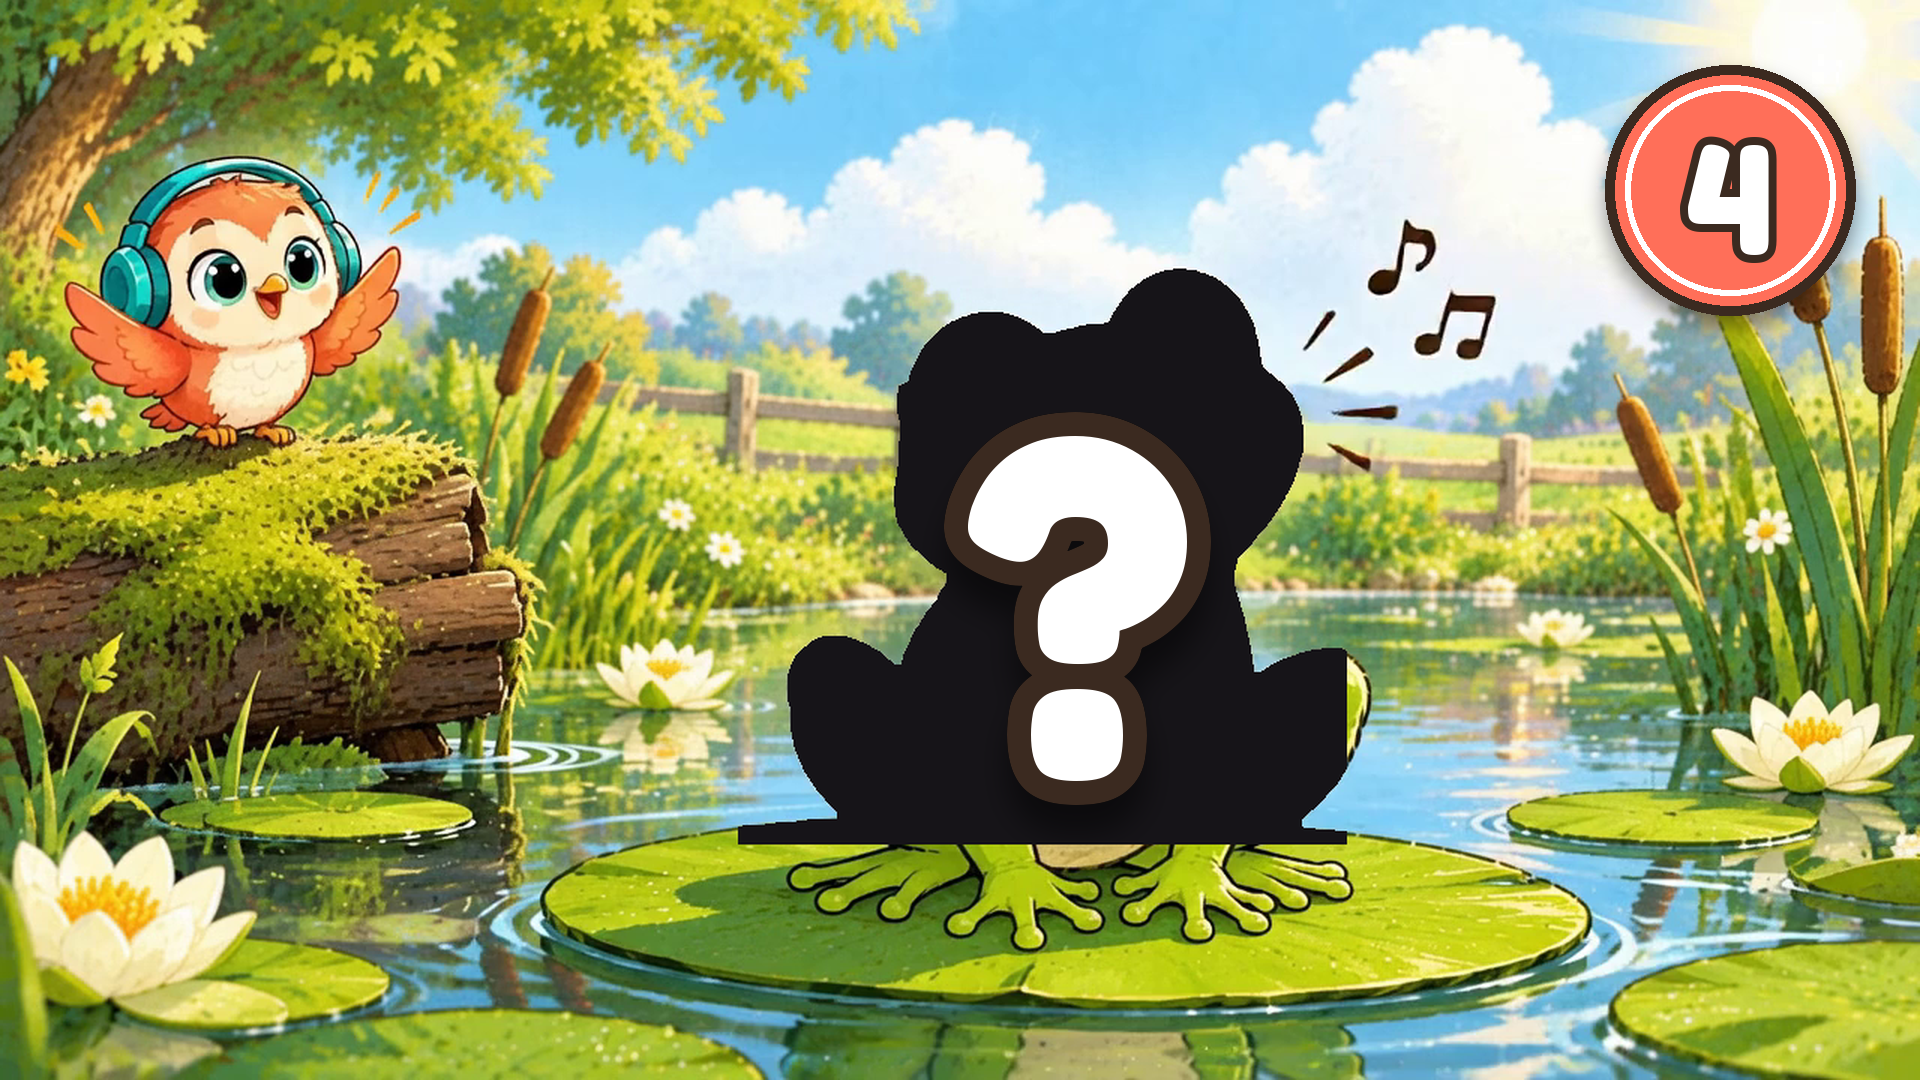
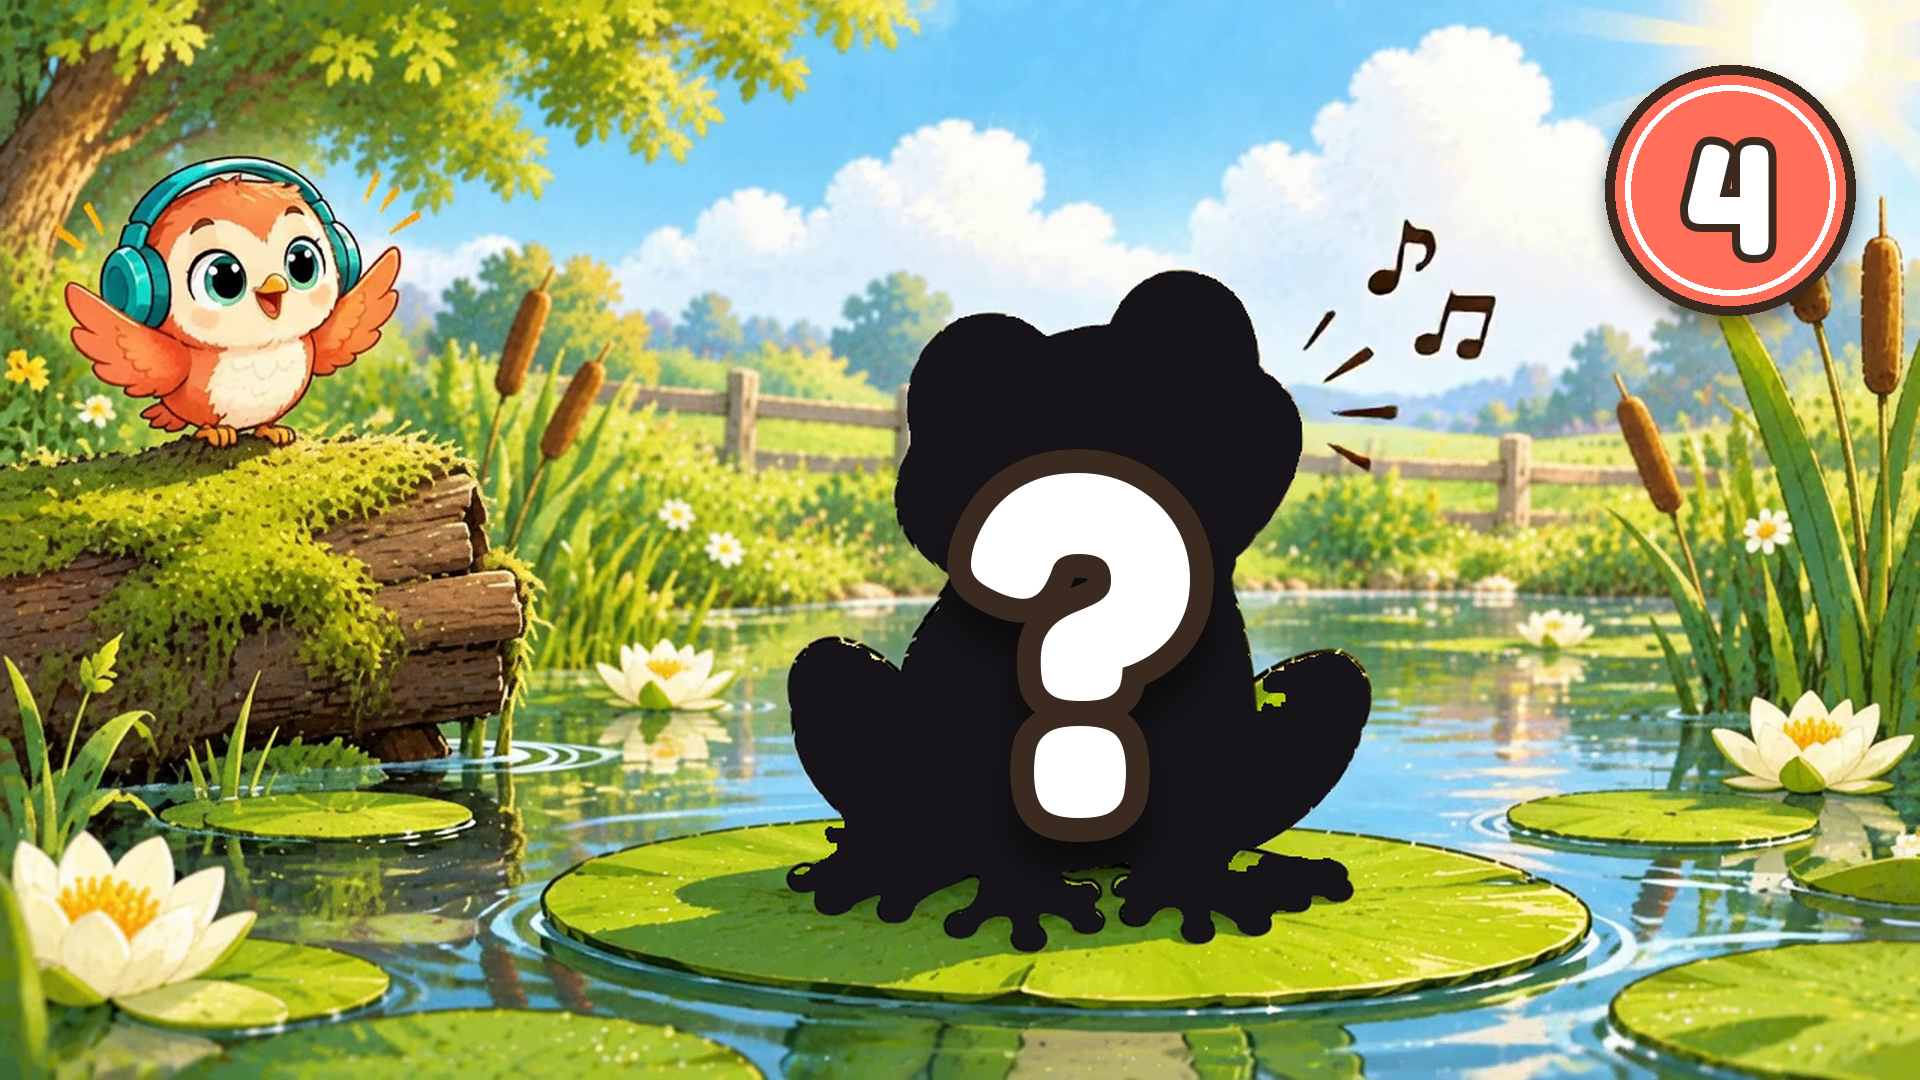
Redo frog, owl and pigeon silhouettes with SAM point prompts
Claude-Session: https://claude.ai/code/session_013XL8KMJpuTBCnbvZY37CBL

diff --git a/unelte/runda_sam.py b/unelte/runda_sam.py
@@ -1,0 +1,47 @@
+"""Siluetă precisă cu SAM: marchezi cu puncte animalul (+) și fundalul lipit de el (-).
+
+Folosire: python3 runda_sam.py <nr_runda> "x,y;x,y;..." "x,y;..." [doar-sam]   (coordonate pe cadru-0.png al rundei)
+"""
+import sys, os
+import numpy as np
+from PIL import Image
+from scipy import ndimage as nd
+from rembg import remove, new_session
+
+ROOT = os.path.join(os.path.dirname(__file__), "..", "canal", "imagini")
+OVL = os.path.join(ROOT, "suprapuneri")
+W, H = 1920, 1080
+nr = int(sys.argv[1])
+pts = lambda s: [[int(v) for v in p.split(",")] for p in s.split(";") if p]
+pos, neg = pts(sys.argv[2]), pts(sys.argv[3]) if len(sys.argv) > 3 else []
+out = os.path.join(ROOT, f"runda-{nr:02d}")
+im = Image.open(os.path.join(out, "cadru-0.png")).convert("RGB")
+w, h = im.size
+prompt = [{"type": "point", "data": p, "label": 1} for p in pos] + [{"type": "point", "data": p, "label": 0} for p in neg]
+m = np.array(remove(im, session=new_session("sam"), only_mask=True, sam_prompt=prompt)) > 127
+# completăm cu modelele obișnuite în zona animalului (capul/fața le scapă uneori lui SAM);
+# dacă fundalul se lipește de animal (acoperiș, frunză), rulează cu al 4-lea argument „doar-sam”
+ys, xs = np.where(m); pad = 25
+x0, y0, x1, y1 = max(0, xs.min() - pad), max(0, ys.min() - pad), min(w, xs.max() + pad), min(h, ys.max() + 1)
+crop = im.crop((x0, y0, x1, y1)); extra = np.zeros(crop.size[::-1], bool)
+for name in (() if len(sys.argv) > 4 and sys.argv[4] == "doar-sam" else ("isnet-general-use", "isnet-anime")):
+    extra |= np.array(remove(crop, session=new_session(name), only_mask=True)) > 60
+m[y0:y1, x0:x1] |= extra
+m = nd.binary_fill_holes(nd.binary_closing(m, structure=np.ones((5, 5))))
+lab, n = nd.label(m)
+m = lab == (np.argmax(nd.sum(m, lab, range(1, n + 1))) + 1)
+cy, cx = nd.center_of_mass(m)
+sil = Image.composite(Image.new("RGB", (w, h), (22, 20, 24)), im, Image.fromarray((m * 255).astype("uint8")))
+sil.save(os.path.join(out, "silueta-fara-semn.png"))
+base = sil.convert("RGBA").resize((W, H), Image.LANCZOS)
+qq = Image.new("RGBA", (W, H), (0, 0, 0, 0))
+qq.alpha_composite(Image.open(os.path.join(OVL, "semn-intrebare.png")), (int(cx * W / w) - W // 2, int(cy * H / h) - H // 2))
+def save(extra, name):
+    b = base.copy(); b.alpha_composite(qq)
+    if extra: b.alpha_composite(Image.open(extra))
+    b.convert("RGB").save(os.path.join(out, name))
+save(os.path.join(OVL, "runde", f"round-{nr:02d}.png"), "1-round.png")
+save(None, "2-silueta.png")
+for k in range(5, 0, -1):
+    save(os.path.join(OVL, "numaratoare", f"{k}.png"), f"3-numaratoare-{k}.png")
+print("gata:", out)
